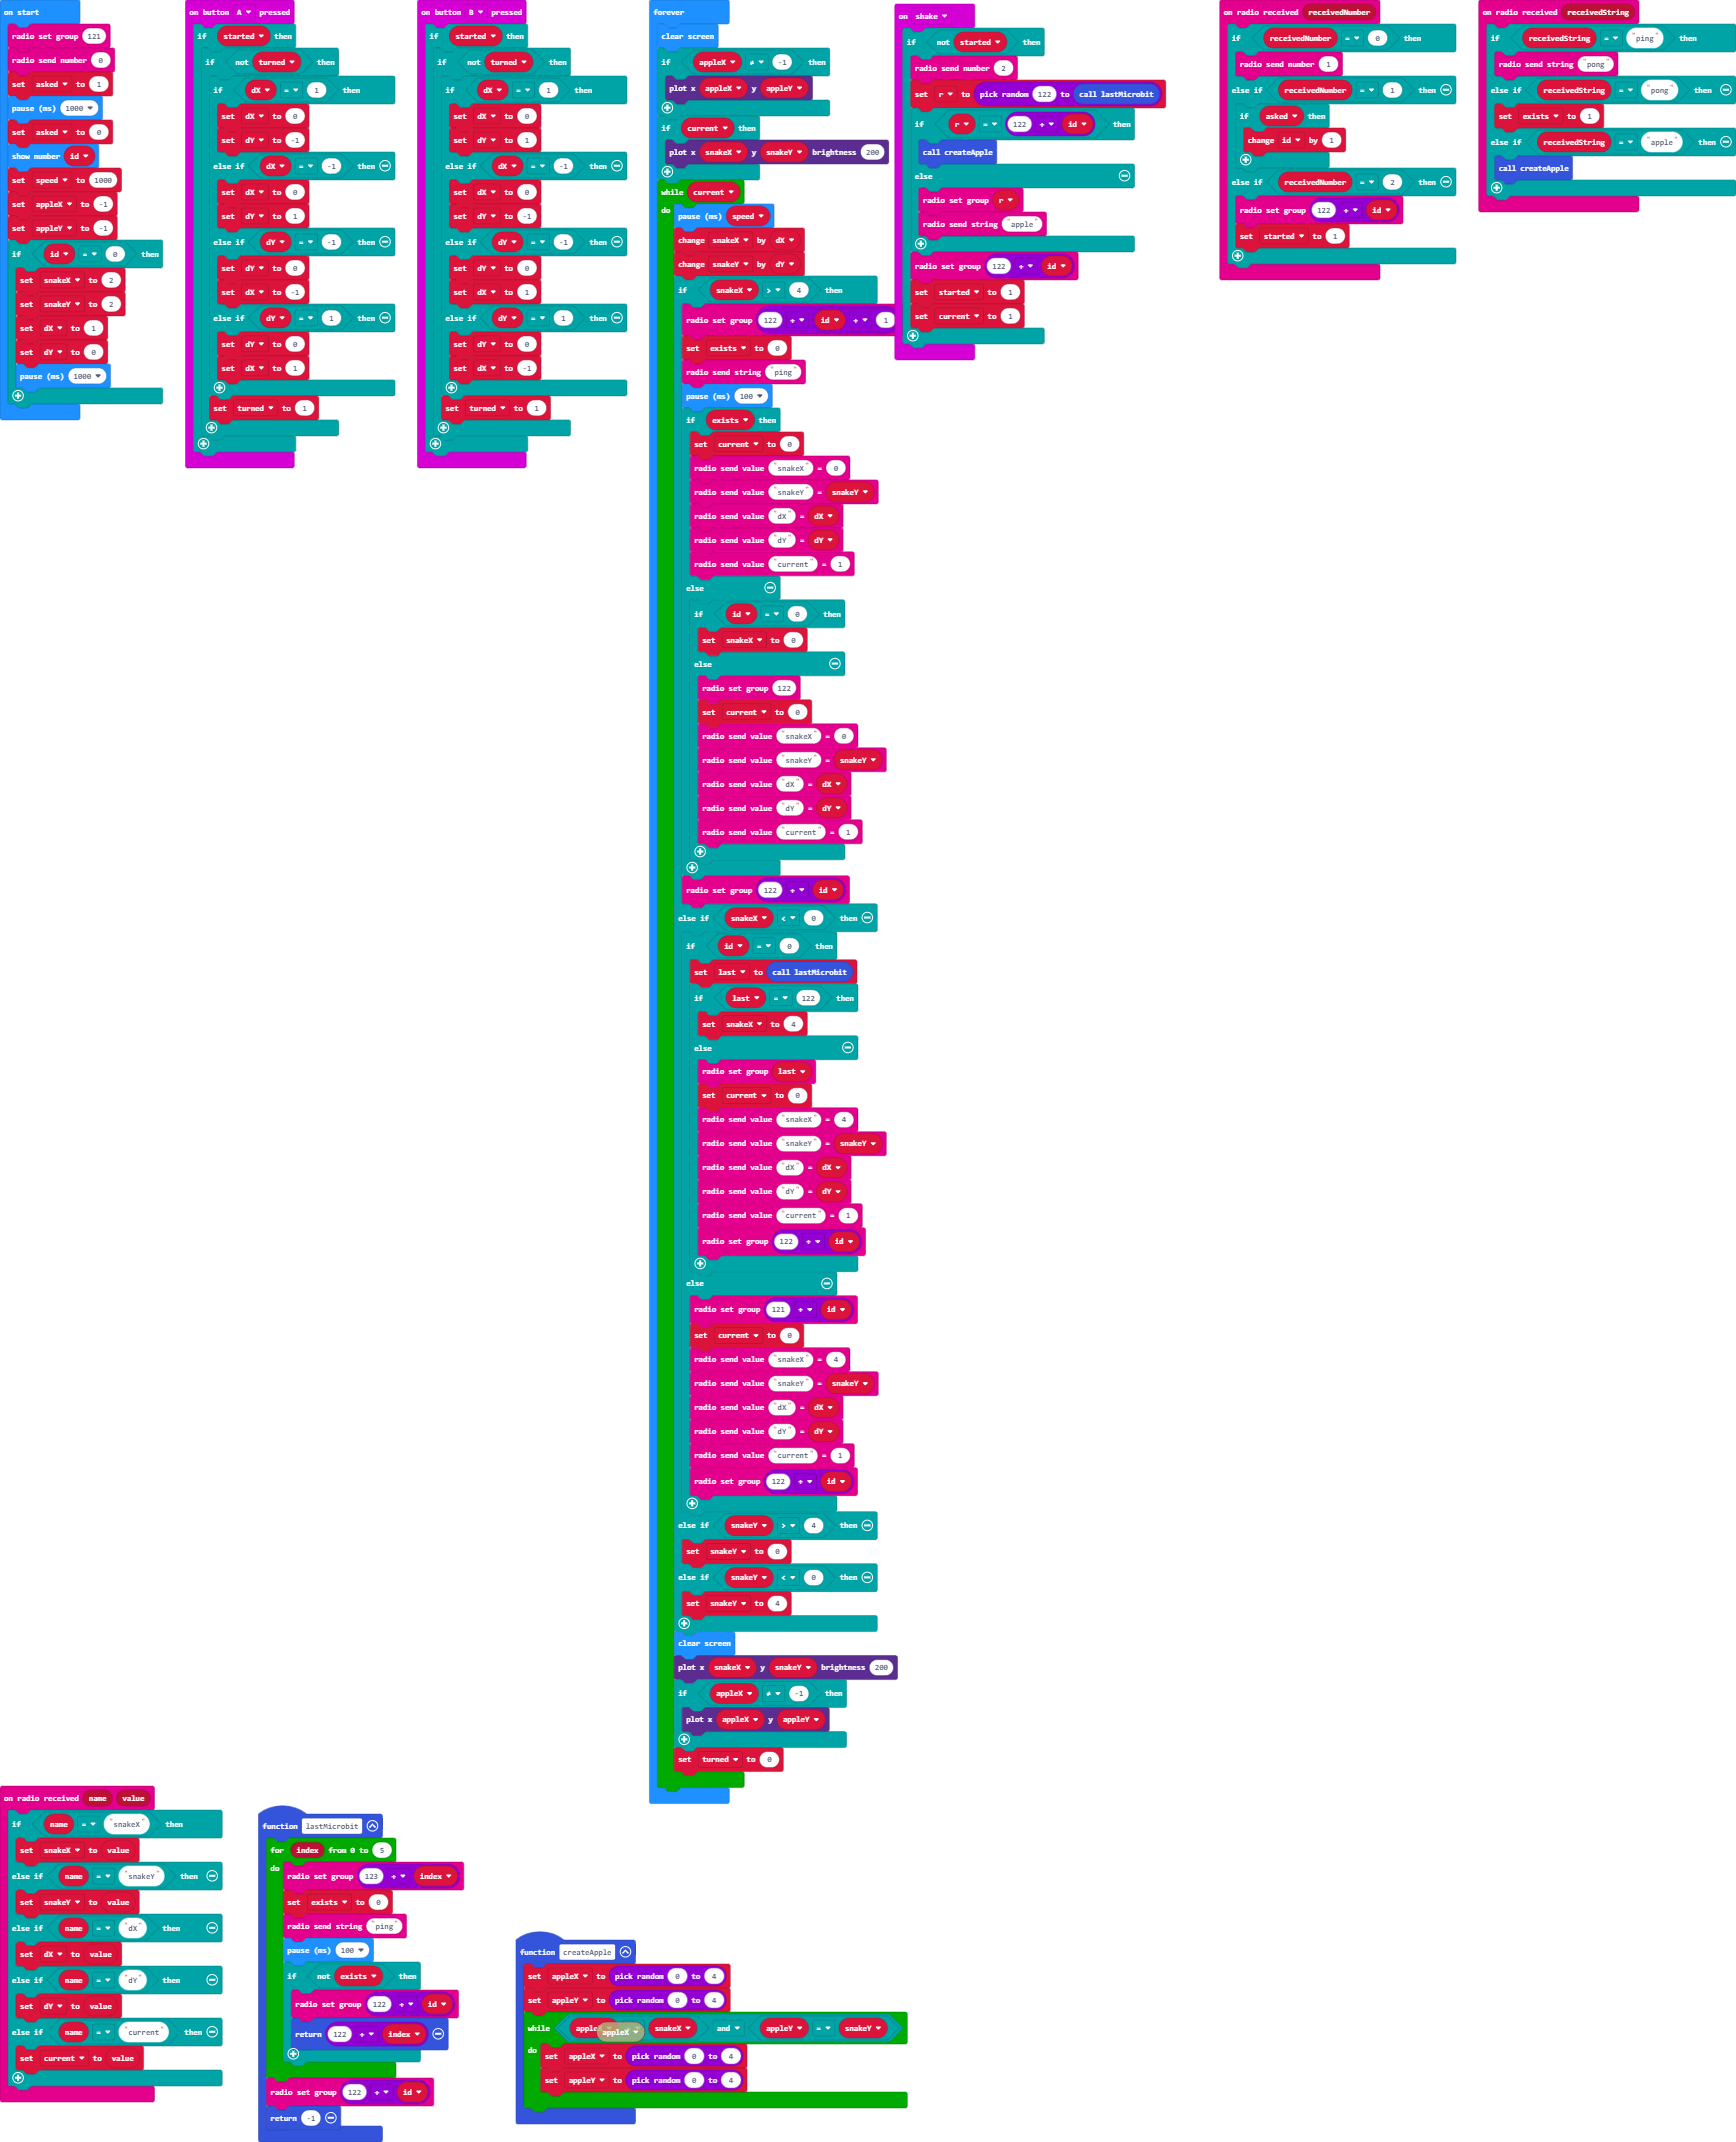
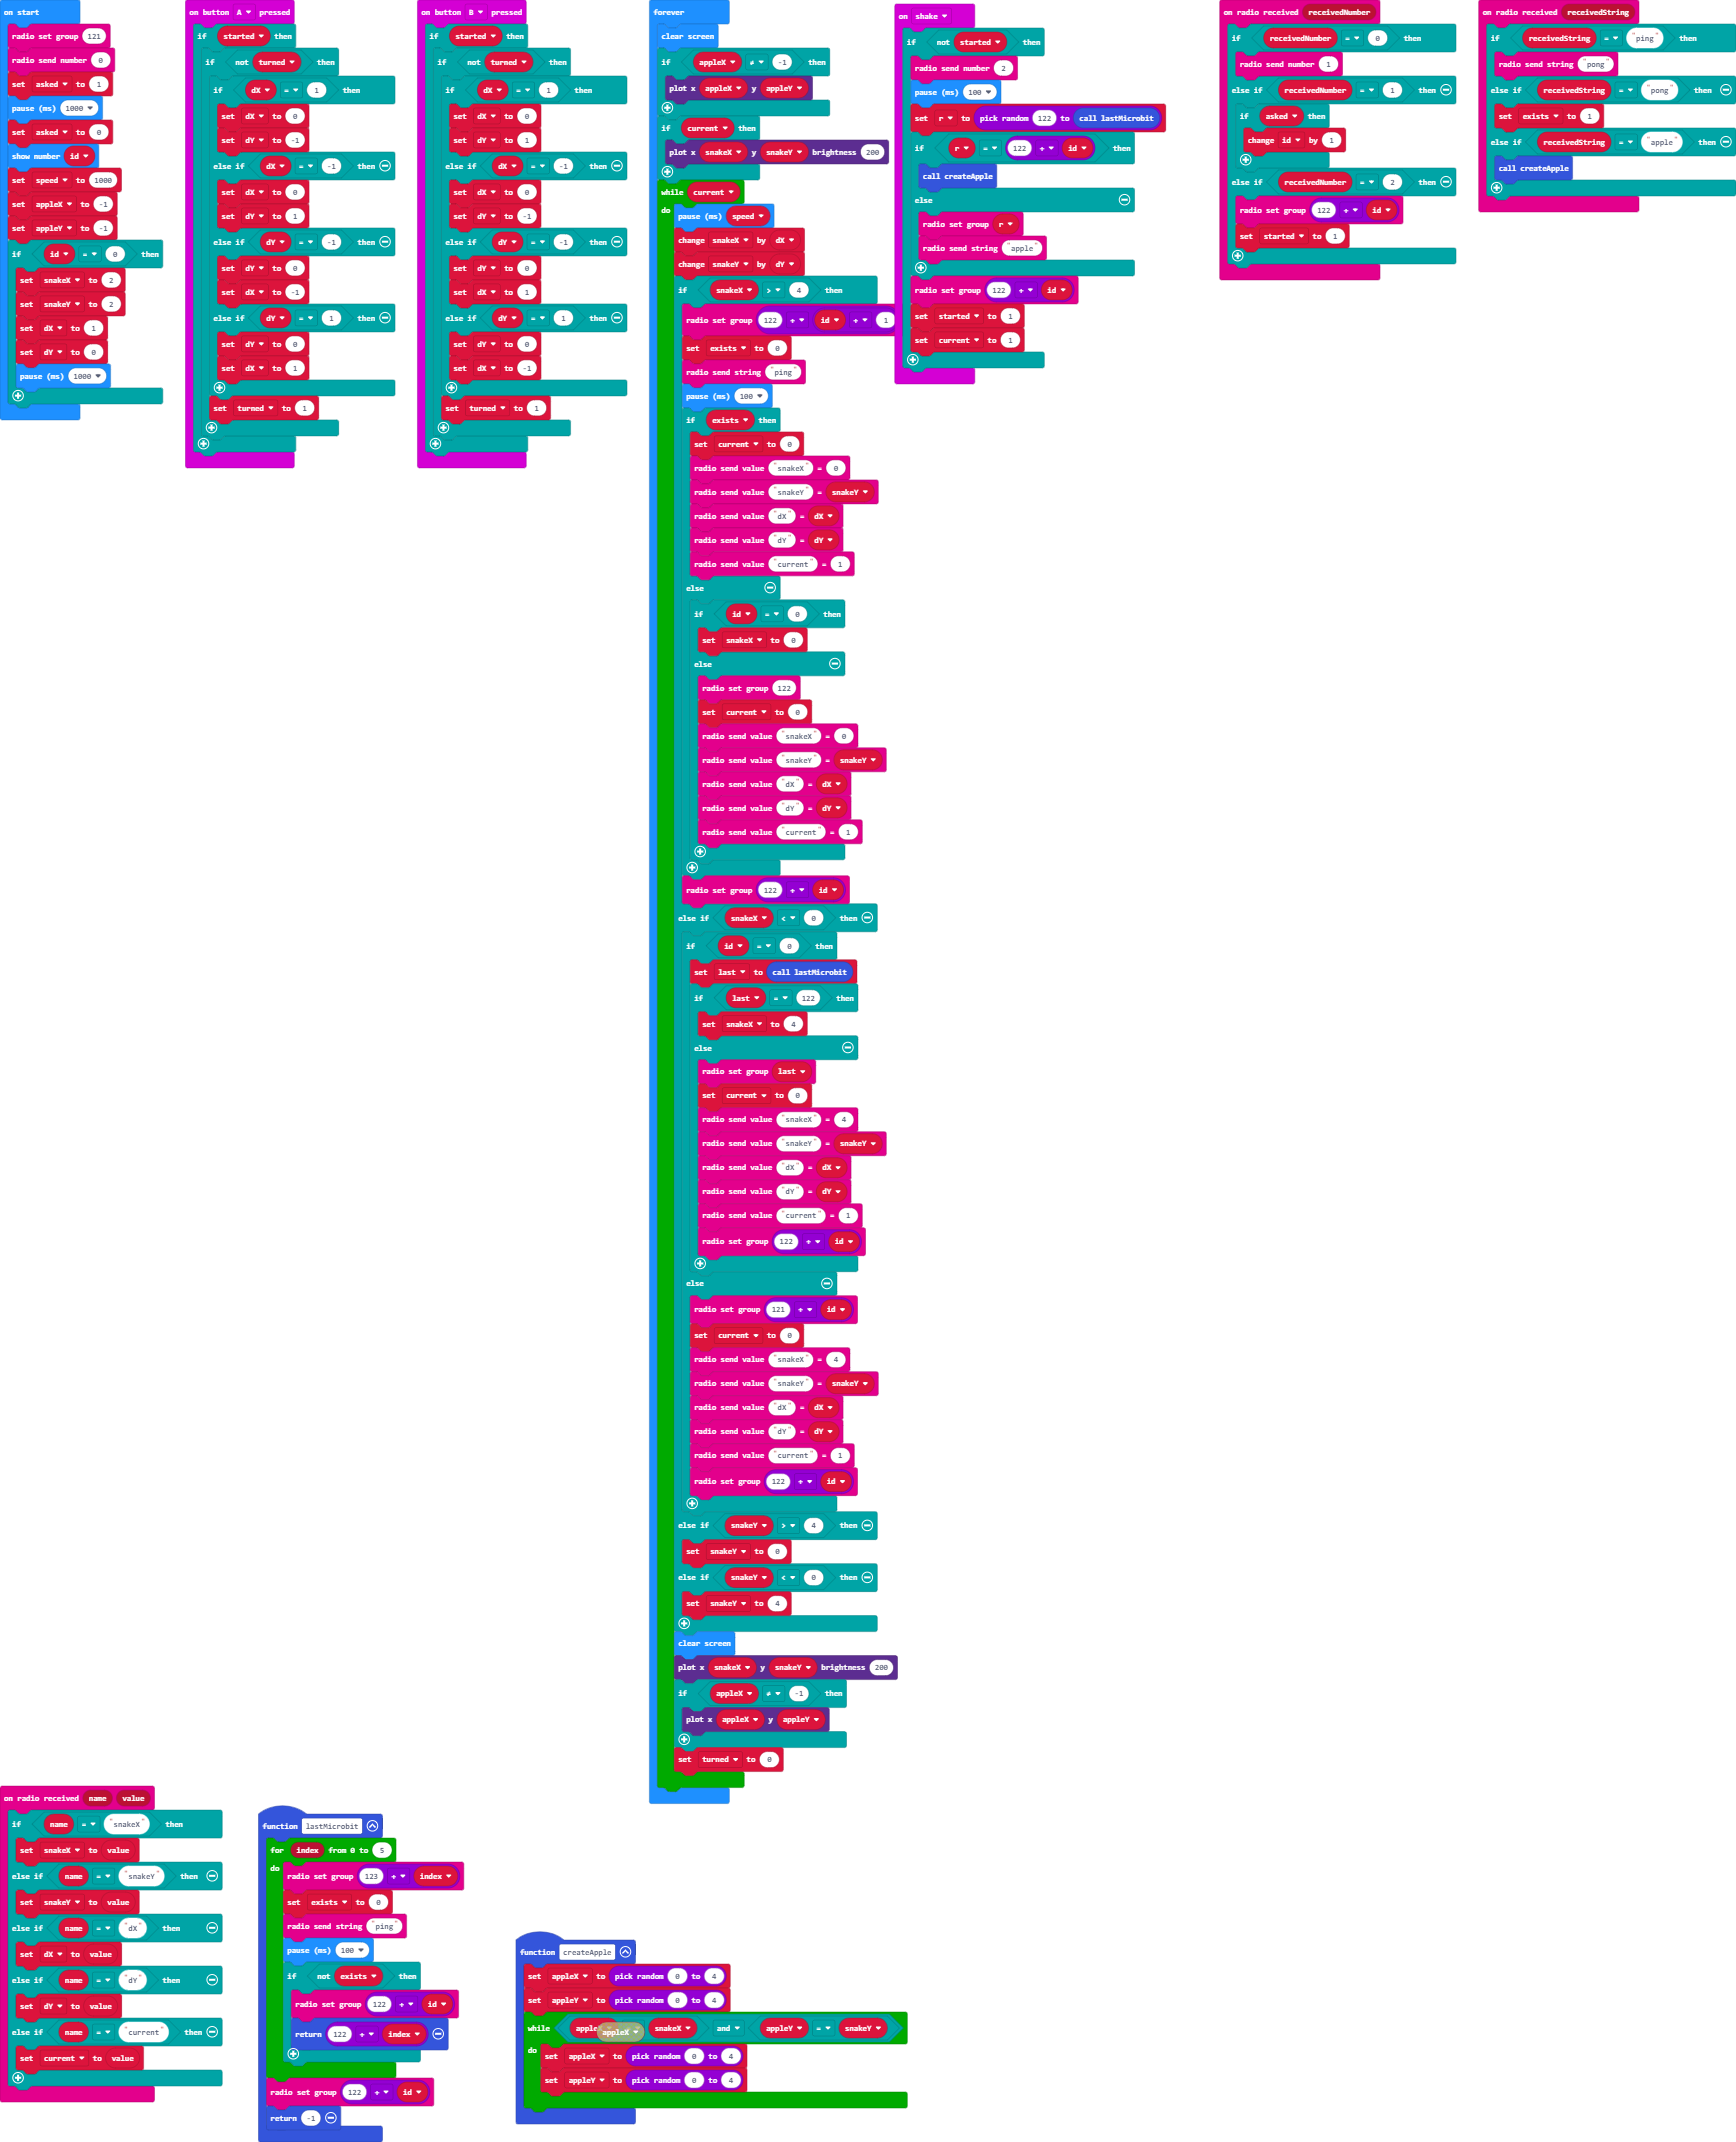
delay to ensure groups are set correctly

Changed region(s): [[0.4977, 0.0308, 0.6843, 0.1849]]

diff --git a/main.ts b/main.ts
@@ -84,6 +84,7 @@ input.onButtonPressed(Button.B, function () {
 input.onGesture(Gesture.Shake, function () {
     if (!(started)) {
         radio.sendNumber(2)
+        basic.pause(100)
         r = randint(122, lastMicrobit())
         if (r == 122 + id) {
             createApple()
